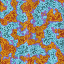
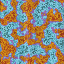
Fold noise at the mapped range instead of clamping
Values beyond ±span clamped to the outer gradient's last color,
leaving large flat single-color caps on the tallest hills. A triangle
reflection at the boundary keeps the rings continuing inward across
the tops — continuous, and the summit stays within its family colors.

diff --git a/internal/sketch/tapestry/tapestry.go b/internal/sketch/tapestry/tapestry.go
@@ -164,6 +164,21 @@ type plan struct {
 	grainAmt float64
 }
 
+// fold reflects n back into [-span, span] (triangle wave). Without it,
+// noise values beyond the mapped range clamp to the outer gradient's last
+// color, leaving large flat single-color caps on the tallest hills; with
+// it, the rings continue inward across the very tops.
+func fold(n, span float64) float64 {
+	r := math.Mod(n+span, 4*span)
+	if r < 0 {
+		r += 4 * span
+	}
+	if r > 2*span {
+		r = 4*span - r
+	}
+	return r - span
+}
+
 // bandOf returns the band index for noise value n and the value range of
 // that band.
 func (p *plan) bandOf(n float64) (band int, lo, hi float64) {
@@ -188,7 +203,7 @@ func (s *Sketch) Render(ctx sketch.Context) (image.Image, error) {
 		// Layers 1+2: contour banding with terrain-owned colorways —
 		// which value band this pixel's noise falls in decides both the
 		// ring and its color register. bandFrac feeds relief shading.
-		n := field.FBM(u*p.freq, v*p.freq, s.Octaves)
+		n := fold(field.FBM(u*p.freq, v*p.freq, s.Octaves), p.span)
 		band, lo, hi := p.bandOf(n)
 		idx, bandFrac := gradient.Locate(remap(n, lo, hi), p.bands)
 		c := p.grads[band][idx]

diff --git a/internal/sketch/tapestry/tapestry_test.go b/internal/sketch/tapestry/tapestry_test.go
@@ -5,6 +5,7 @@ import (
 	"flag"
 	"image"
 	"image/png"
+	"math"
 	"os"
 	"path/filepath"
 	"testing"
@@ -84,6 +85,29 @@ func TestPlanBounds(t *testing.T) {
 				t.Fatalf("seed %d: stripe amount %v out of range", seed, st.amount)
 			}
 		}
+	}
+}
+
+func TestFold(t *testing.T) {
+	const span = 0.6
+	tests := []struct{ in, want float64 }{
+		{0, 0},
+		{0.5, 0.5},
+		{-0.5, -0.5},
+		{0.6, 0.6},
+		{-0.6, -0.6},
+		{0.7, 0.5},   // reflects at +span
+		{-0.7, -0.5}, // reflects at -span
+		{1.3, -0.1},  // continues down past the reflection
+	}
+	for _, tt := range tests {
+		if got := fold(tt.in, span); math.Abs(got-tt.want) > 1e-12 {
+			t.Errorf("fold(%v) = %v, want %v", tt.in, got, tt.want)
+		}
+	}
+	// Continuity across the boundary.
+	if math.Abs(fold(span-1e-9, span)-fold(span+1e-9, span)) > 1e-8 {
+		t.Error("fold is discontinuous at +span")
 	}
 }
 
